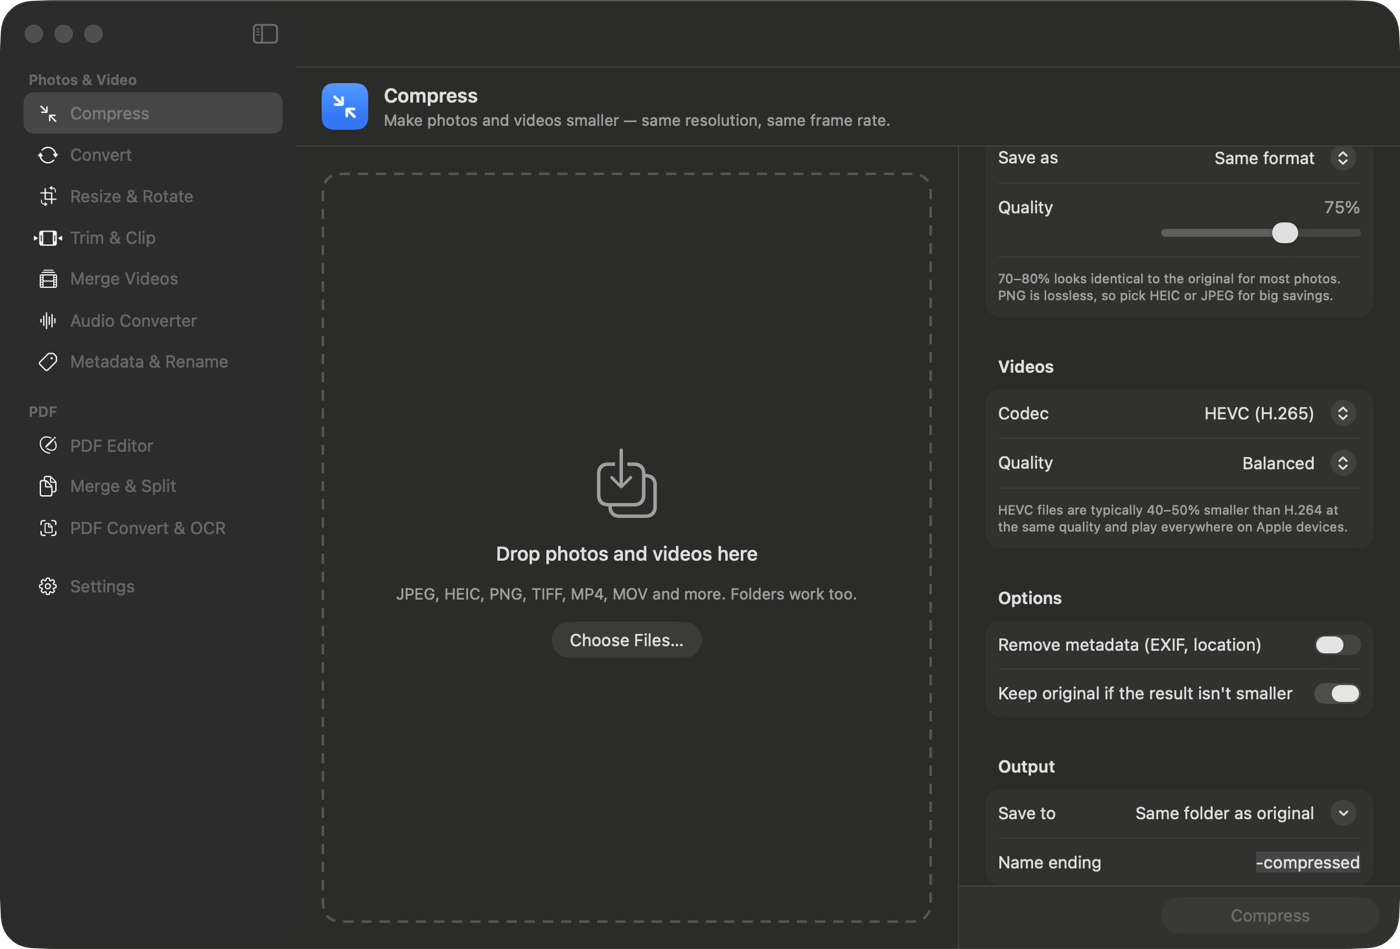
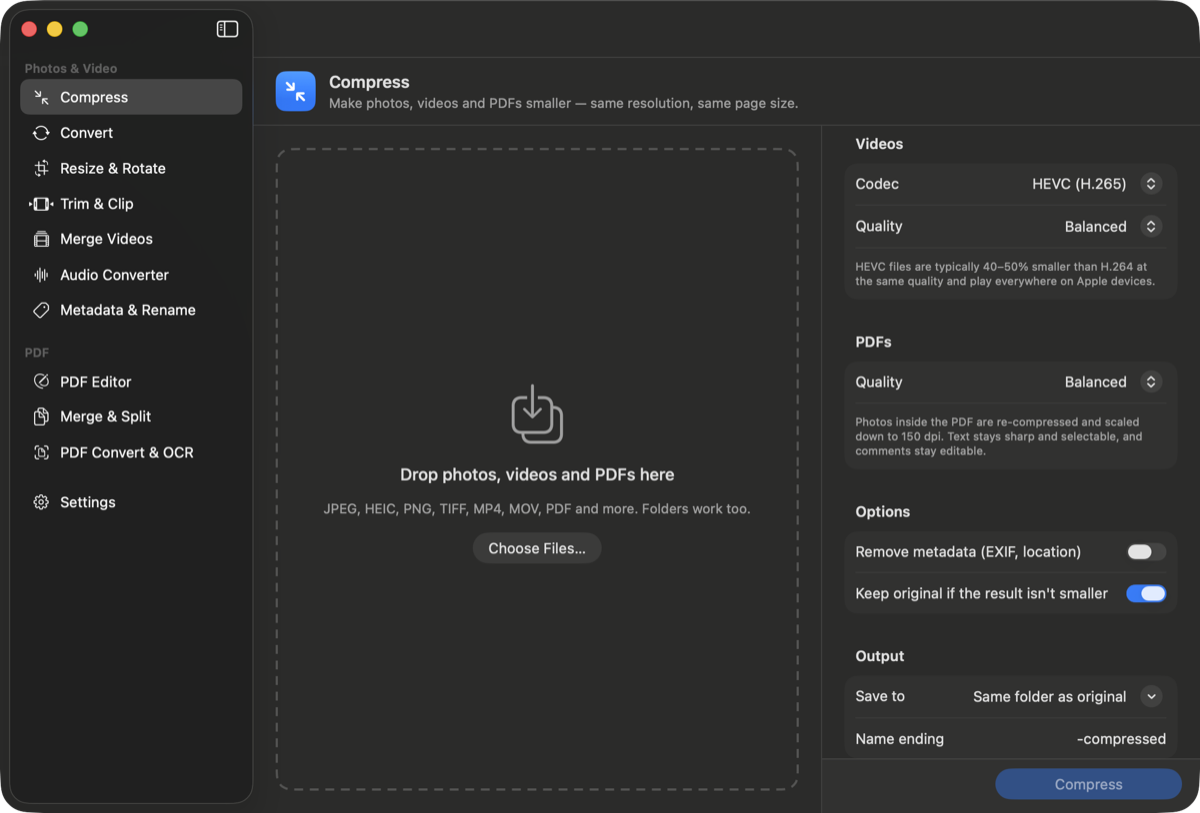
Compress PDFs alongside photos and videos
The Compress tool now accepts PDFs. Images inside the document are
re-encoded as JPEG and scaled to 110-200 dpi with a Quartz filter, while
text and vector art stay vector, so a photo-heavy PDF drops to roughly a
quarter of its size with no visible difference.

Pages are drawn upright and their rotation is re-applied afterwards: under
a rotated transform the filter silently leaves images untouched, which
made rotated documents come out no smaller than the original. Annotations
are moved onto the compressed pages so comments and form fields stay
editable instead of being flattened, and document attributes are carried
over. Password-protected files are reported rather than mangled.

diff --git a/Sources/FileUtilities/PDF/PDFTools.swift b/Sources/FileUtilities/PDF/PDFTools.swift
@@ -1,5 +1,6 @@
 import AppKit
 import CoreText
+import Quartz
 import ImageIO
 import PDFKit
 import UniformTypeIdentifiers
@@ -41,6 +42,77 @@ enum PDFTools {
             ctx.endPage()
         }
         ctx.closePDF()
+    }
+
+    // MARK: Compress
+
+    enum CompressLevel: String, CaseIterable, Identifiable {
+        case high = "High quality"
+        case balanced = "Balanced"
+        case small = "Smallest"
+        var id: Self { self }
+        /// JPEG quality for images inside the PDF, and the resolution they're reduced to.
+        var quality: Double { [.high: 0.8, .balanced: 0.6, .small: 0.45][self]! }
+        var dpi: Int { [.high: 200, .balanced: 150, .small: 110][self]! }
+    }
+
+    /// Recompresses the images inside a PDF. Text and vector graphics stay sharp, annotations stay editable.
+    static func compress(_ src: URL, to dst: URL, level: CompressLevel) throws {
+        guard let source = PDFDocument(url: src) else { throw AppError("Can't open this PDF") }
+        guard !source.isLocked else { throw AppError("This PDF is password-protected") }
+        guard let content = CGPDFDocument(src as CFURL), content.numberOfPages > 0 else {
+            throw AppError("Can't read this PDF")
+        }
+        let filterProperties: [AnyHashable: Any] = [
+            "Name": "File Utilities Compress",
+            "FilterType": 1,
+            "Domains": ["Applications": true, "Printing": true],
+            "FilterData": ["ColorSettings": ["ImageSettings": [
+                "Compression Quality": level.quality,
+                "ImageCompression": "ImageJPEGCompress",
+                "ImageScaleSettings": [
+                    "ImageResolution": level.dpi,
+                    "ImageScaleInterpolate": true,
+                    "ImageSizeMax": 4000,
+                    "ImageSizeMin": 0,
+                ],
+            ]]],
+        ]
+        guard let filter = QuartzFilter(properties: filterProperties) else { throw AppError("Couldn't set up PDF compression") }
+
+        var defaultBox = CGRect(x: 0, y: 0, width: 612, height: 792)
+        guard let ctx = CGContext(dst as CFURL, mediaBox: &defaultBox, nil) else { throw AppError("Couldn't create the PDF") }
+        filter.apply(to: ctx)
+        var rotations: [Int] = []
+        for index in 1...content.numberOfPages {
+            try Task.checkCancellation()
+            guard let page = content.page(at: index) else { continue }
+            let crop = page.getBoxRect(.cropBox)
+            rotations.append(Int(page.rotationAngle))
+            // Draw the page upright: under a rotated transform the filter leaves images untouched.
+            var box = CGRect(origin: .zero, size: crop.size)
+            ctx.beginPage(mediaBox: &box)
+            ctx.saveGState()
+            ctx.translateBy(x: -crop.minX, y: -crop.minY)
+            ctx.drawPDFPage(page)
+            ctx.restoreGState()
+            ctx.endPage()
+        }
+        ctx.closePDF()
+
+        // Restore each page's rotation and move the annotations across so they stay editable.
+        guard let result = PDFDocument(url: dst) else { throw AppError("Couldn't finish the PDF") }
+        for index in 0..<result.pageCount {
+            guard let page = result.page(at: index) else { continue }
+            if index < rotations.count { page.rotation = rotations[index] }
+            guard let original = source.page(at: index) else { continue }
+            for annotation in original.annotations {
+                original.removeAnnotation(annotation)
+                page.addAnnotation(annotation)
+            }
+        }
+        result.documentAttributes = source.documentAttributes
+        guard result.write(to: dst) else { throw AppError("Couldn't save the compressed PDF") }
     }
 
     // MARK: Images → PDF

diff --git a/Sources/FileUtilities/UI/MediaViews.swift b/Sources/FileUtilities/UI/MediaViews.swift
@@ -8,10 +8,10 @@ struct CompressView: View {
     @Bindable var app: AppState
 
     var body: some View {
-        ToolLayout(title: "Compress", subtitle: "Make photos and videos smaller — same resolution, same frame rate.",
+        ToolLayout(title: "Compress", subtitle: "Make photos, videos and PDFs smaller — same resolution, same page size.",
                    icon: Tool.compress.icon) {
-            BatchListView(model: app.compress, hint: "Drop photos and videos here",
-                          detail: "JPEG, HEIC, PNG, TIFF, MP4, MOV and more. Folders work too.")
+            BatchListView(model: app.compress, hint: "Drop photos, videos and PDFs here",
+                          detail: "JPEG, HEIC, PNG, TIFF, MP4, MOV, PDF and more. Folders work too.")
         } side: {
             Form {
                 Section("Photos") {
@@ -29,6 +29,12 @@ struct CompressView: View {
                         ForEach(CompressOptions.Level.allCases) { Text($0.rawValue).tag($0) }
                     }
                     Caption("HEVC files are typically 40–50% smaller than H.264 at the same quality and play everywhere on Apple devices.")
+                }
+                Section("PDFs") {
+                    Picker("Quality", selection: $app.compressOptions.pdfLevel) {
+                        ForEach(PDFTools.CompressLevel.allCases) { Text($0.rawValue).tag($0) }
+                    }
+                    Caption("Photos inside the PDF are re-compressed and scaled down to \(app.compressOptions.pdfLevel.dpi) dpi. Text stays sharp and selectable, and comments stay editable.")
                 }
                 Section("Options") {
                     Toggle("Remove metadata (EXIF, location)", isOn: $app.compressOptions.stripMetadata)

diff --git a/Sources/FileUtilities/Core/Jobs.swift b/Sources/FileUtilities/Core/Jobs.swift
@@ -22,6 +22,7 @@ struct CompressOptions {
         var audioKbps: Int { self == .small ? 128 : 160 }
     }
 
+    var pdfLevel = PDFTools.CompressLevel.balanced
     var imageTarget = ImageTarget.keep
     var imageQuality = 0.75
     var stripMetadata = false
@@ -155,6 +156,12 @@ enum Jobs {
                     try await ff.run(["-i", url.path] + meta + video + ff.aacArgs(kbps: o.videoLevel.audioKbps) + [out.path], progress: progress)
                 }
             }
+        case .pdf:
+            out = Output.destination(for: url, folder: folder, suffix: o.suffix, ext: "pdf")
+            try await cleaningUp(out) {
+                try await Task.detached { try PDFTools.compress(url, to: out, level: o.pdfLevel) }.value
+            }
+            progress(1)
         default:
             throw AppError("Unsupported file type")
         }

diff --git a/Sources/FileUtilities/App.swift b/Sources/FileUtilities/App.swift
@@ -92,7 +92,7 @@ final class AppState {
     var selection: Tool? = .compress
     var ffmpegAvailable = FFmpeg.shared.isAvailable
 
-    let compress = BatchModel(accepted: [.image, .video])
+    let compress = BatchModel(accepted: [.image, .video, .pdf])
     var compressOptions = CompressOptions()
 
     let convert = BatchModel(accepted: [.image, .video])

diff --git a/README.md b/README.md
@@ -22,7 +22,7 @@ No accounts, no uploads, no subscriptions — everything runs on your Mac.
 
 | Tool | What it's for |
 |---|---|
-| **Compress** | Makes photos and videos take less space while keeping the same resolution, frame rate and quality settings you choose. Keeps the original if the result isn't actually smaller. |
+| **Compress** | Makes photos, videos **and PDFs** take less space while keeping the same resolution, frame rate and page size. Keeps the original if the result isn't actually smaller. |
 | **Convert** | Photos: JPEG, PNG, HEIC, AVIF, TIFF, GIF, BMP, JPEG 2000, TGA, PSD, OpenEXR. Videos: MP4, MOV, M4V, MKV, WebM, AVI, WMV, FLV, MPEG, TS, OGV, 3GP and animated GIF. When only the container changes, streams are copied with no quality loss. |
 | **Resize & Rotate** | Batch resize, crop to an aspect ratio or custom edges, rotate and flip — with a live before/after preview. |
 | **Trim & Clip** | Cut a section out of a video (lossless fast mode), extract the audio, make a GIF, or save the current frame as an image. |
@@ -37,6 +37,7 @@ No accounts, no uploads, no subscriptions — everything runs on your Mac.
 | **PDF Editor** | Type text anywhere, add sticky notes, rectangles, ellipses, lines, arrows and freehand pen strokes, and highlight, underline or strike through text. Move, recolor, resize, erase and undo. Save in place, save a copy, or export a flattened copy whose markup can't be edited. |
 | **Merge & Split** | Combine PDFs and images into one document, drag pages to reorder, rotate, duplicate, delete, extract a selection or split into parts. |
 | **PDF Convert & OCR** | Images → PDF, PDF → images at any DPI, and OCR that makes scanned PDFs searchable. Text recognition runs on-device. |
+| **Compress PDF** | In the **Compress** tool: re-compresses the photos inside a PDF and scales them to 110–200 dpi, typically cutting an image-heavy PDF to a quarter of its size. Text and vector graphics stay sharp and selectable, comments and form fields stay editable, and page rotation is preserved. |
 
 <div align="center">
 <img src="docs/pdf-editor.png" width="420" alt="PDF editor"> <img src="docs/resize.png" width="420" alt="Resize and rotate">
